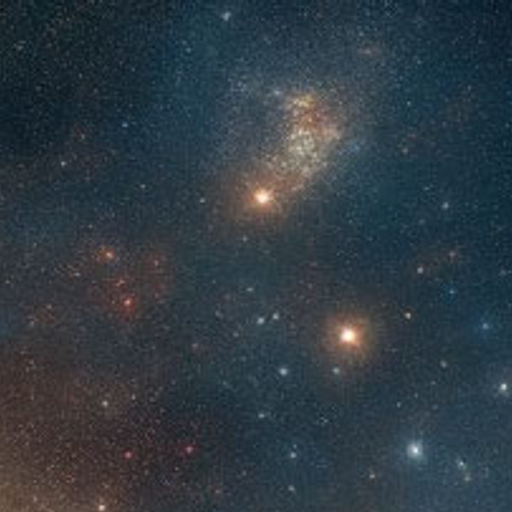
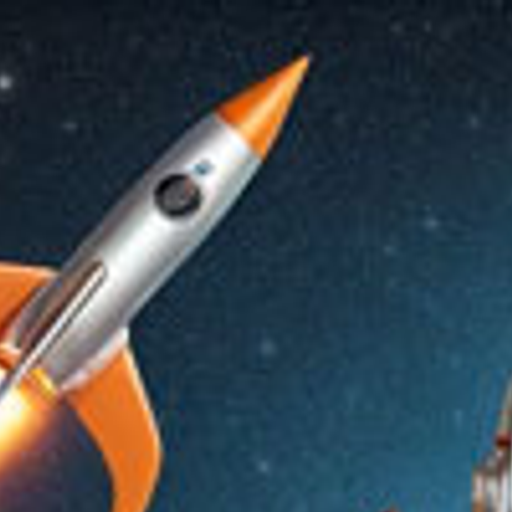
fix: modals only dismiss via button click or ESC key
Removed backdrop-click dismiss from all 3 modals (ClaimModal,
BatchClaimModal, MultiTileSpanModal). Added ESC key handler to all 3.
Modals now only close via explicit × button, Cancel/Done button, or ESC.

diff --git a/src/components/ClaimModal.js b/src/components/ClaimModal.js
@@ -1,11 +1,17 @@
 'use client';
 
-import { useState } from 'react';
+import { useState, useEffect } from 'react';
 import { useAccount, useWriteContract, useReadContract, useSwitchChain, useConnect, useDisconnect, usePublicClient } from 'wagmi';
 import { parseUnits, formatUnits } from 'viem';
 import { CONTRACT_ADDRESS, USDC_ADDRESS, MBH_ABI, ERC20_ABI, TARGET_CHAIN } from '@/lib/wagmi';
 
 export default function ClaimModal({ tileId, onClose, onClaimed }) {
+  useEffect(() => {
+    const h = e => { if (e.key === 'Escape') onClose(); };
+    window.addEventListener('keydown', h);
+    return () => window.removeEventListener('keydown', h);
+  }, [onClose]);
+
   const { address, isConnected, chainId } = useAccount();
   const { switchChain } = useSwitchChain();
   const { connectors, connect, isPending: isConnecting } = useConnect();
@@ -162,7 +168,7 @@ export default function ClaimModal({ tileId, onClose, onClaimed }) {
   };
 
   return (
-    <div style={overlayStyle} onClick={e => { if (e.target === e.currentTarget) onClose(); }}>
+    <div style={overlayStyle} onClick={e => e.stopPropagation()} /* no backdrop dismiss — use ✕ or Cancel */>
       <div style={modalStyle}>
         <div style={{ display: 'flex', justifyContent: 'space-between', alignItems: 'center', marginBottom: 24 }}>
           <h2 style={{ margin: 0, fontSize: 20, fontWeight: 700 }}>Claim Tile #{tileId}</h2>

diff --git a/src/components/BatchClaimModal.js b/src/components/BatchClaimModal.js
@@ -46,6 +46,11 @@ function detectRectangle(tileIds) {
 }
 
 export default function BatchClaimModal({ tileIds, tiles, onClose, onClaimed, onSpanClaimRequest }) {
+  useEffect(() => {
+    const h = e => { if (e.key === 'Escape') onClose(); };
+    window.addEventListener('keydown', h);
+    return () => window.removeEventListener('keydown', h);
+  }, [onClose]);
   const [step, setStep] = useState('preview');
   const [error, setError] = useState(null);
   const [currentPrice, setCurrentPrice] = useState(null);
@@ -140,7 +145,7 @@ export default function BatchClaimModal({ tileIds, tiles, onClose, onClaimed, on
       position: 'fixed', inset: 0, zIndex: 9999,
       display: 'flex', alignItems: 'center', justifyContent: 'center',
       background: 'rgba(0,0,0,0.7)', backdropFilter: 'blur(4px)',
-    }} onClick={onClose}>
+    }} onClick={e => e.stopPropagation()} /* no backdrop dismiss — use × or Cancel */>
       <div style={{
         background: '#1a1a2e', border: '1px solid #2a2a4a', borderRadius: 16,
         padding: 24, maxWidth: 520, width: '95%', maxHeight: '80vh', overflowY: 'auto',

diff --git a/src/components/MultiTileSpanModal.js b/src/components/MultiTileSpanModal.js
@@ -19,6 +19,11 @@ function getRectTileIds(topLeftId, width, height) {
 }
 
 export default function MultiTileSpanModal({ topLeftId, tiles, initialTileIds = null, onClose, onCreated }) {
+  useEffect(() => {
+    const h = e => { if (e.key === 'Escape') onClose(); };
+    window.addEventListener('keydown', h);
+    return () => window.removeEventListener('keydown', h);
+  }, [onClose]);
   const { address } = useAccount();
   const [width, setWidth] = useState(2);
   const [height, setHeight] = useState(1);
@@ -142,7 +147,7 @@ export default function MultiTileSpanModal({ topLeftId, tiles, initialTileIds = 
   return (
     <div
       style={{ position: 'fixed', inset: 0, background: 'rgba(0,0,0,0.8)', display: 'flex', alignItems: 'center', justifyContent: 'center', zIndex: 1100 }}
-      onClick={e => e.target === e.currentTarget && onClose()}
+      onClick={e => e.stopPropagation()} /* no backdrop dismiss — use × or Cancel */
     >
       <div style={{ width: 540, maxWidth: '95vw', background: '#0f0f1a', border: '1px solid #1a1a2e', borderRadius: 16, padding: 24, color: '#fff' }}>
         <div style={{ display: 'flex', justifyContent: 'space-between', alignItems: 'center', marginBottom: 16 }}>